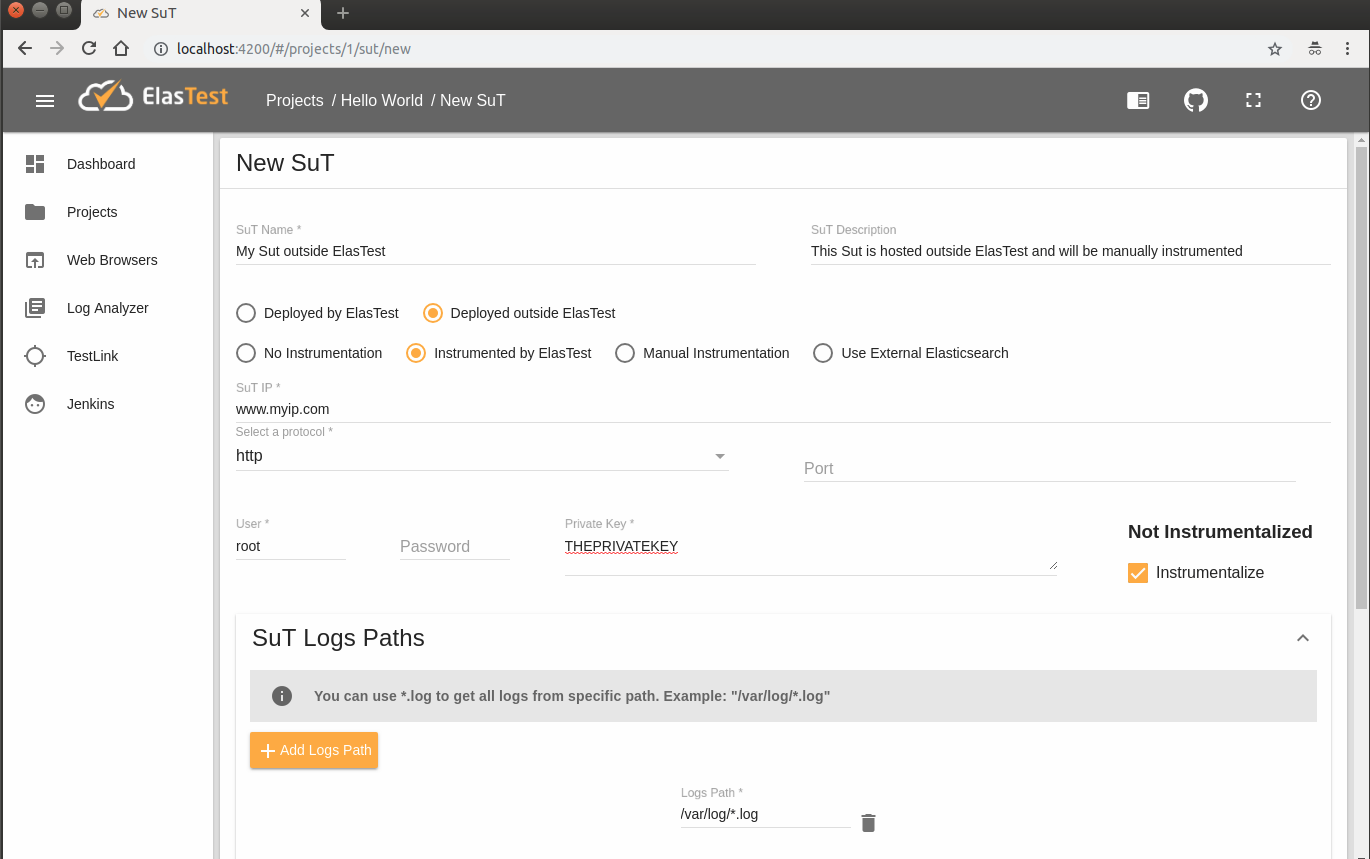
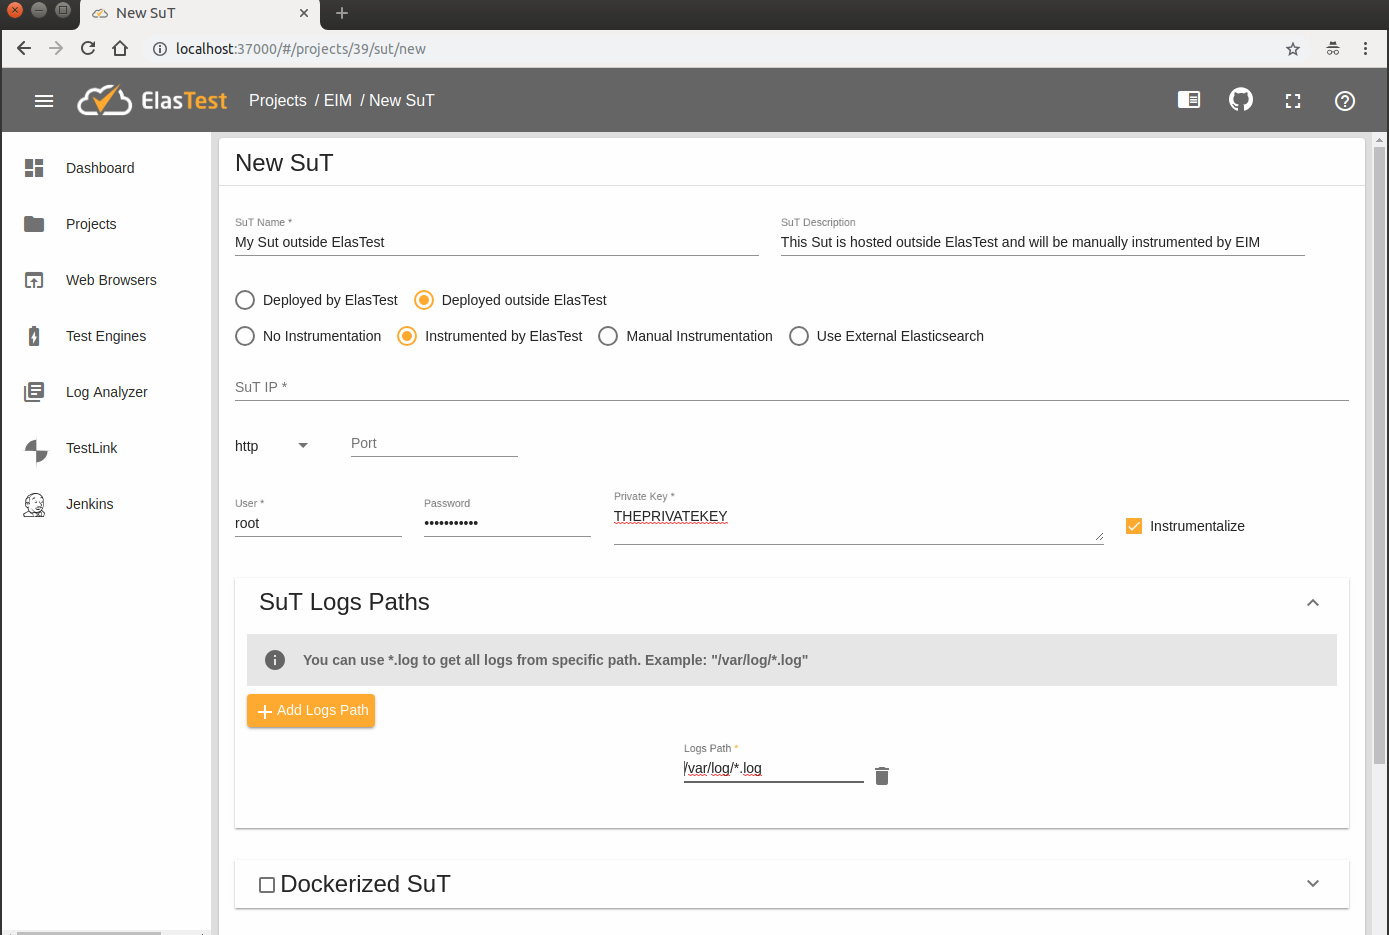
Update Sut with EIM docs

diff --git a/docs/testing/sut.md b/docs/testing/sut.md
@@ -134,7 +134,9 @@ After filling SuT name and description fields, click on _Save and get monitoring
 
 <h5 class="small-subtitle">Instrumented by ElasTest</h5>
 
-Your SuT is already deployed on an external server and you want to automatically send its logs and metrics to ElasTest. Elastest will be responsible for accessing your Sut to send monitoring traces.
+Your SuT is already deployed on an external server and you want to automatically send its logs and metrics to ElasTest. Elastest will be responsible for accessing your Sut to send monitoring traces, through the ElasTest Instrumentation Manager (EIM) service.
+
+EIM is integrated with ElasTest and allows to instrumentalize and de-instrumentalize the deployed SuTs. TJobs can also executed to verify that the SuTs are successfully instrumentalized.
 
 **Fields to declare:**
 
@@ -142,18 +144,32 @@ Your SuT is already deployed on an external server and you want to automatically
 -   **SuT Protocol**: Protocol of your SuT. **`http`** is selected by default.
 -   **User**: The user for access to your SuT.
 -   **Private Key**: The Private Key for access to your SuT.
--   **Instrumentalize**: If is checked, the Sut will be instrumented once the configuration is saved and it will start sending monitoring traces to ElasTest.
+-   **Instrumentalize**: If checked, it will be registered in the EIM so that the EIM can install Beats agents for SuT monitoring.
 -   **Sut Logs Path**: Full path where the logs that you want to monitor are located. One or more routes can be indicated.
 
 **Optional Fields:**
 
 -   **SuT Port**: Port of your SuT.
 -   **Password**: Password of your SuT.
+-   **Dockerized SuT**: To indicate that your Sut consists of one or more Docker containers. You must indicate The path where docker writes the **`containers logs`** and the path of **`docker.sock`**.
 
 <p></p>
 <div class="docs-gallery inline-block">
     <a data-fancybox="gallery-1" href="/docs/testing/images/sut/sut_outside_eim.png"><img class="img-responsive img-wellcome" src="/docs/testing/images/sut/sut_outside_eim.png"/></a>
+        <a data-fancybox="gallery-1" href="/docs/testing/images/sut/sut_outside_eim2.png"><img class="img-responsive img-wellcome" src="/docs/testing/images/sut/sut_outside_eim2.png"/></a>
 </div>
+
+Once the Sut is created, it can be associated with one or more TJobs of the same project. Each time a TJob is executed, ElasTest will install beat agents in the Sut to monitor the execution. The installed beats are:
+
+-   [Packetbeat](https://www.elastic.co/guide/en/beats/packetbeat/5.6/packetbeat-overview.html)
+-   [Filebeat](https://www.elastic.co/guide/en/beats/filebeat/5.6/filebeat-overview.html)
+-   [Metricbeat](https://www.elastic.co/guide/en/beats/metricbeat/5.6/metricbeat-overview.html)
+
+<div class="range range-xs range-xs-center warning-range">
+    <div class="cell-xs-2 cell-lg-1" style="text-align: center;"><span class="icon mdi mdi-information-outline warning-span"></span></div>
+    <div class="cell-xs-10 cell-lg-11 warning-text"><p><i>IMPORTANT: For proper operation, there should not be more than one execution of the same TJob simultaneously.</i></p></div>
+</div>
+
 
 <h5 id="outsideExternalES" class="small-subtitle">Use external Elasticsearch</h5>
 
